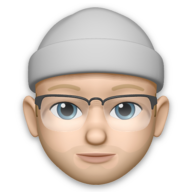
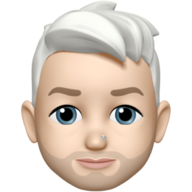
new memoji, removed projects

diff --git a/js/scripts.js b/js/scripts.js
@@ -16,7 +16,7 @@ document.addEventListener("DOMContentLoaded", function(event) {
             autoAlpha: 0,
             ease: "power1.Out",
             stagger: {
-                grid: [2,12],
+                grid: [2,9],
                 from: "start",
                 each: 0.1
             }

diff --git a/portfolio.php b/portfolio.php
@@ -6,22 +6,6 @@
                 col-md-6
                 col-lg-6">
 				<div class="project animate">
-					<a href="https://www.apple.com/iphone-14/" target="_blank">
-						<div class="thumbnail">
-							<img src="img/iphone14@2x.png" alt="iPhone 14">
-						</div>
-						<div class="details">
-							<p>Apple</p>
-							<h3>iPhone 14</h3>
-						</div>
-					</a>
-				</div>
-    		</div>
-    		<div class="col-xs-12
-                col-sm-6
-                col-md-6
-                col-lg-6">
-				<div class="project animate">
 					<a href="https://www.apple.com/iphone-14-pro/" target="_blank">
 						<div class="thumbnail">
 							<img src="img/iphone14pro@2x.png" alt="iPhone 14 Pro">
@@ -33,9 +17,6 @@
 					</a>
 				</div>
     		</div>
-		</div>
-
-		<div class="row">
     		<div class="col-xs-12
                 col-sm-6
                 col-md-6
@@ -48,22 +29,6 @@
 						<div class="details">
 							<p>Apple</p>
 							<h3>iPhone 13</h3>
-						</div>
-					</a>
-				</div>
-    		</div>
-    		<div class="col-xs-12
-                col-sm-6
-                col-md-6
-                col-lg-6">
-				<div class="project animate">
-					<a href="https://web.archive.org/web/20220303233753/apple.com/iphone-13-pro/" target="_blank">
-						<div class="thumbnail">
-							<img src="img/iphone13pro@2x.png" alt="iPhone 13 Pro">
-						</div>
-						<div class="details">
-							<p>Apple</p>
-							<h3>iPhone 13 Pro</h3>
 						</div>
 					</a>
 				</div>
@@ -127,25 +92,6 @@
                 col-md-6
                 col-lg-6">
 				<div class="project animate">
-					<a href="https://web.archive.org/web/20201102023220/https://www.apple.com/iphone-12-pro/" target="_blank">
-						<div class="thumbnail">
-							<img src="img/iphone12pro@2x.png" alt="iPhone 12 Pro">
-						</div>
-						<div class="details">
-							<p>Apple</p>
-							<h3>iPhone 12 Pro</h3>
-						</div>
-					</a>
-				</div>
-    		</div>
-		</div>
-
-		<div class="row">
-			<div class="col-xs-12
-                col-sm-6
-                col-md-6
-                col-lg-6">
-				<div class="project animate">
 					<a href="https://web.archive.org/web/20200618100912/https://www.apple.com/iphone-se/" target="_blank">
 						<div class="thumbnail">
 							<img src="img/iphone-se2@2x.png" alt="iPhone SE (2nd gen)">
@@ -157,6 +103,9 @@
 					</a>
 				</div>
     		</div>
+		</div>
+
+		<div class="row">
     		<div class="col-xs-12
                 col-sm-6
                 col-md-6
@@ -173,9 +122,6 @@
 					</a>
 				</div>
     		</div>
-		</div>
-
-		<div class="row">
     		<div class="col-xs-12
                 col-sm-6
                 col-md-6
@@ -192,14 +138,17 @@
 					</a>
 				</div>
     		</div>
+		</div>
+
+		<div class="row">
     		<div class="col-xs-12
-                col-sm-6
-                col-md-6
-                col-lg-6">
+                col-sm-12
+                col-md-12
+                col-lg-12">
 				<div class="project animate" id="last">
 					<a href="https://www.behance.net/mikeio" target="_blank">
 						<div class="thumbnail">
-							<img src="img/viewmore-small@2x.png" id="large" alt="Behance">
+							<img src="img/viewmore@2x.png" id="large" alt="Behance">
 							<img src="img/viewmore-small@2x.png" id="small" alt="Behance">
 						</div>
 						<div class="details">

diff --git a/header.php b/header.php
@@ -1,32 +1,32 @@
 <header>
 
-		<div class="row">
-    		<div class="col-xs-12
+        <div class="row">
+            <div class="col-xs-12
                 col-sm-12
                 col-md-12
                 col-lg-12">
-       			<div class="memoji"><img src="img/memoji.png" alt="Memoji"></div>
-    		</div>
-    		<div class="col-xs-12
+                <div class="memoji"><img src="img/memoji.png" alt="Memoji"></div>
+            </div>
+            <div class="col-xs-12
                 col-sm-4
                 col-md-4
                 col-lg-4">
-       			<div class="name">Michael Peters</div>
-    		</div>
-    		<div class="col-xs-12
+                <div class="name">Michael Peters</div>
+            </div>
+            <div class="col-xs-12
                 col-sm-4
                 col-md-4
                 col-lg-4">
-       			<div class="title">Interactive&nbsp;Designer</div>
-    		</div>
-    		<div class="col-xs-12
+                <div class="title">Senior Designer</div>
+            </div>
+            <div class="col-xs-12
                 col-sm-4
                 col-md-4
                 col-lg-4">
-       			<div class="email">
-       				<a href="mailto:hello@mikepeters.io?subject=Hello">hello@mikepeters.io</a>
-       			</div>
-    		</div>
-		</div>
+                <div class="email">
+                    <a href="mailto:hello@mikepeters.io?subject=Hello">hello@mikepeters.io</a>
+                </div>
+            </div>
+        </div>
 
-	</header>
+    </header>

diff --git a/head.php b/head.php
@@ -20,7 +20,7 @@
     <link rel="icon" type="image/png" sizes="32x32" href="/favicon-32x32.png">
     <link rel="icon" type="image/png" sizes="16x16" href="/favicon-16x16.png">
     <link rel="manifest" href="/site.webmanifest">
-    <link rel="mask-icon" href="/safari-pinned-tab.svg" color="#5bbad5">
+    <link rel="mask-icon" href="/safari-pinned-tab.svg" color="#0066cc">
     <meta name="msapplication-TileColor" content="#ffffff">
     <meta name="theme-color" content="#ffffff">
     
